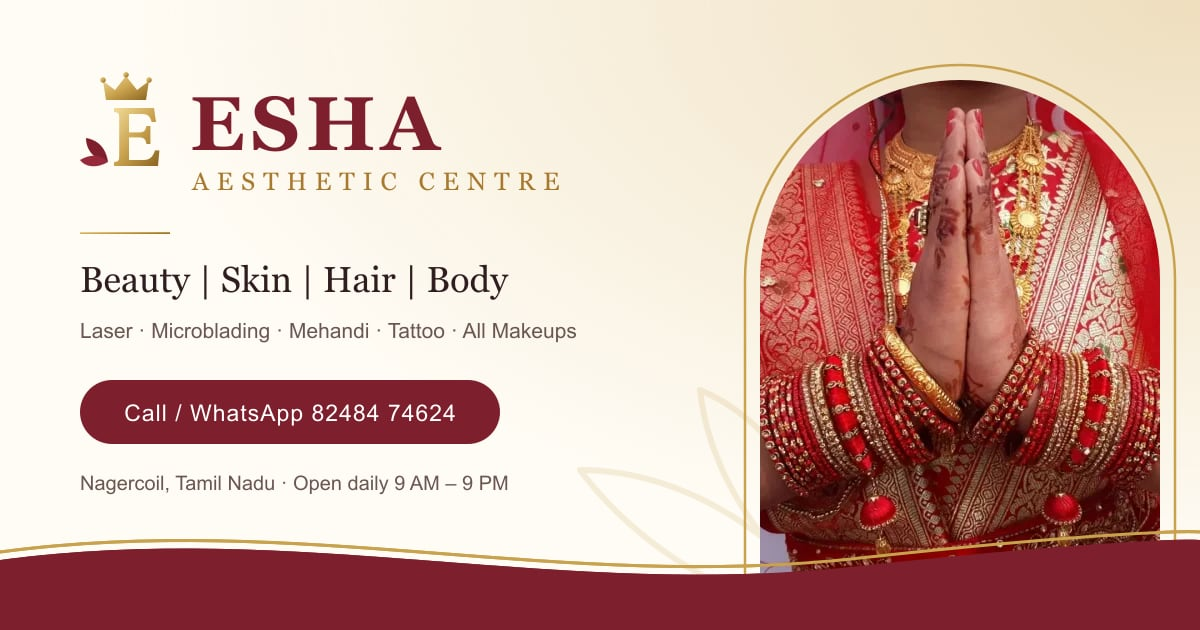
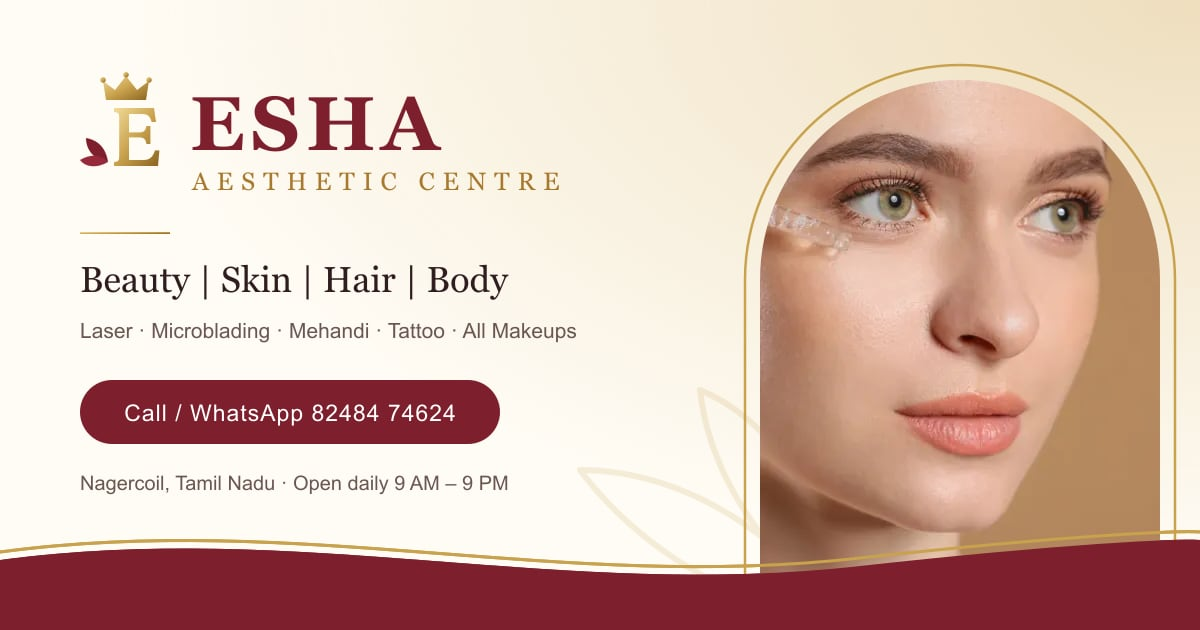
New hero photo: glowing-skin portrait
Replaces the bride photo in the hero, landing page and share image; Botox & Fillers card gets a different skin photo so nothing repeats.

Changed region(s): [[0.6167, 0.1206, 0.9867, 0.9048]]

diff --git a/src/app/content/services.content.ts b/src/app/content/services.content.ts
@@ -73,7 +73,7 @@ export const SERVICES: SalonService[] = [
       'Botox and dermal fillers can soften the look of lines and restore volume for a refreshed appearance. We discuss your goals, suitability, the procedure and aftercare in detail before any treatment is planned.',
     highlights: ['Detailed consultation', 'Natural-looking approach', 'Line softening', 'Volume & contour care'],
     image: 'assets/media/services/botox-fillers.webp',
-    imageAlt: 'Close-up of smooth, glowing skin after a skin treatment',
+    imageAlt: 'Woman with smooth, glowing skin applying a serum',
     featured: false,
   },
   {

diff --git a/src/app/pages/home/home.html b/src/app/pages/home/home.html
@@ -63,7 +63,7 @@
           <div class="frame">
             <img
               src="assets/media/hero/hero-portrait.webp"
-              alt="Bride in a red silk saree with bridal bangles and mehandi, hands folded in namaste"
+              alt="Woman with radiant, glowing skin applying a facial serum"
               width="720"
               height="900"
               fetchpriority="high"

diff --git a/src/app/pages/landing/landing.html b/src/app/pages/landing/landing.html
@@ -26,7 +26,7 @@
           <div class="arch-frame">
             <img
               src="assets/media/hero/hero-portrait.webp"
-              alt="Bride in a red silk saree with bridal bangles and mehandi"
+              alt="Woman with radiant, glowing skin applying a facial serum"
               width="720"
               height="900"
               fetchpriority="high"

diff --git a/CREDITS.md b/CREDITS.md
@@ -12,12 +12,12 @@ All images were resized, cropped and converted to WebP for fast loading.
 | File (in `src/assets/media/`) | Original title | Source | License | Link |
 | --- | --- | --- | --- | --- |
 | hero/hero-bg.webp | Makeup Brush | StockSnap | CC0 | https://stocksnap.io/photo/makeup-brush-EXKVSL1OHJ |
-| hero/hero-portrait.webp | Free Indian wedding photo | rawpixel | CC0 | https://www.rawpixel.com/image/5919721/free-indian-wedding-photo-public-domain-cc0 |
+| hero/hero-portrait.webp | Beauty Skincare | StockSnap | CC0 | https://stocksnap.io/photo/beauty-skincare-LRSAT4NCLS |
 | about/about-main.webp | Makeup artist brushes | rawpixel | CC0 | https://www.rawpixel.com/image/6022176/photo-image-public-domain-person-brushes |
 | about/about-secondary.webp | Person showing hand tattoos | rawpixel | CC0 | https://www.rawpixel.com/image/3285558/free-photo-image-arm-cc0-creative-commons |
 | services/all-makeups.webp | Makeup Artist | StockSnap | CC0 | https://stocksnap.io/photo/makeup-artist-0VSOU0YJF6 |
 | services/body-contouring.webp | Fashion Waist | StockSnap | CC0 | https://stocksnap.io/photo/fashion-waist-VVCEOWJ6GM |
-| services/botox-fillers.webp | Beauty Skincare | StockSnap | CC0 | https://stocksnap.io/photo/beauty-skincare-LRSAT4NCLS |
+| services/botox-fillers.webp | Beauty Skincare | StockSnap | CC0 | https://stocksnap.io/photo/beauty-skincare-CC9TYE8VJY |
 | services/hair-treatments.webp | Hair loss close-up | rawpixel | CC0 | https://www.rawpixel.com/image/5940251/free-public-domain-cc0-photo |
 | services/laser-treatment.webp | Woman Massage | StockSnap | CC0 | https://stocksnap.io/photo/woman-massage-U2PRCV7BEQ |
 | services/mehandi.webp | Untitled | rawpixel | CC0 | https://www.rawpixel.com/image/5922607/free-public-domain-cc0-photo |
